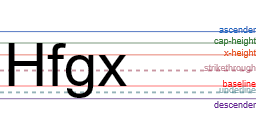
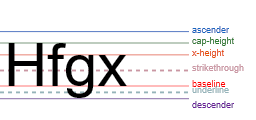
nicer looking metrics test

diff --git a/tests/text_tests.cpp b/tests/text_tests.cpp
@@ -209,19 +209,21 @@ TEST_F(DrawingTest, FontMetricsVisual)
     auto brushST     = bigRT.createSolidColorBrush(colorFromHex(0xAD1457u, 0.7f));  // magenta
 
     const float W = static_cast<float>(kW);
+    const float labelLeft = W * 0.75f;
+    const float lineRight = labelLeft - 3;
 
-    bigRT.drawLine({0.f, ascenderY},  {W, ascenderY},  brushAsc,  1.f);
-    bigRT.drawLine({0.f, capY},       {W, capY},        brushCap,  1.f);
-    bigRT.drawLine({0.f, xhY},        {W, xhY},         brushXH,   1.f);
-    bigRT.drawLine({0.f, kBaselineY}, {W, kBaselineY},  brushBase, 1.f);
-    bigRT.drawLine({0.f, descenderY}, {W, descenderY},  brushDesc, 1.f);
+    bigRT.drawLine({0.f, ascenderY},  {lineRight, ascenderY},  brushAsc,  1.f);
+    bigRT.drawLine({0.f, capY},       {lineRight, capY},        brushCap,  1.f);
+    bigRT.drawLine({0.f, xhY},        {lineRight, xhY},         brushXH,   1.f);
+    bigRT.drawLine({0.f, kBaselineY}, {lineRight, kBaselineY},  brushBase, 1.f);
+    bigRT.drawLine({0.f, descenderY}, {lineRight, descenderY},  brushDesc, 1.f);
 
     // Underline and strikethrough as thicker dashed strokes.
     StrokeStyleProperties dashProps;
     dashProps.dashStyle = DashStyle::Dash;
     auto dashStyle = bigRT.getFactory().createStrokeStyle(dashProps);
-    bigRT.drawLine({0.f, underlineY}, {W, underlineY}, brushUL, 2.f, dashStyle);
-    bigRT.drawLine({0.f, strikeY},    {W, strikeY},    brushST, 2.f, dashStyle);
+    bigRT.drawLine({0.f, underlineY}, {lineRight, underlineY}, brushUL, 2.f, dashStyle);
+    bigRT.drawLine({0.f, strikeY},    {lineRight, strikeY},    brushST, 2.f, dashStyle);
 
     // ---- glyphs: black text drawn on top of the lines ----
     auto textBrush = bigRT.createSolidColorBrush(Colors::Black);
@@ -231,10 +233,10 @@ TEST_F(DrawingTest, FontMetricsVisual)
 
     // ---- labels (small Arial, right-aligned, matching line colour) ----
     auto labelTF = makeTextFormat(9.f);
-    labelTF.setTextAlignment(TextAlignment::Trailing);
+    labelTF.setTextAlignment(TextAlignment::Leading);
     FontMetrics labelFm = labelTF.getFontMetrics();
     const float labelW = 80.f;
-    const float labelX = W - labelW;
+    const float labelX = labelLeft; // W - labelW;
     auto labelY = [&](float lineY) { return lineY - labelFm.capHeight - 1.f; };
 
     bigRT.drawTextU("ascender",    labelTF, {labelX, labelY(ascenderY),  W, ascenderY},  brushAsc, kTextOptions);
